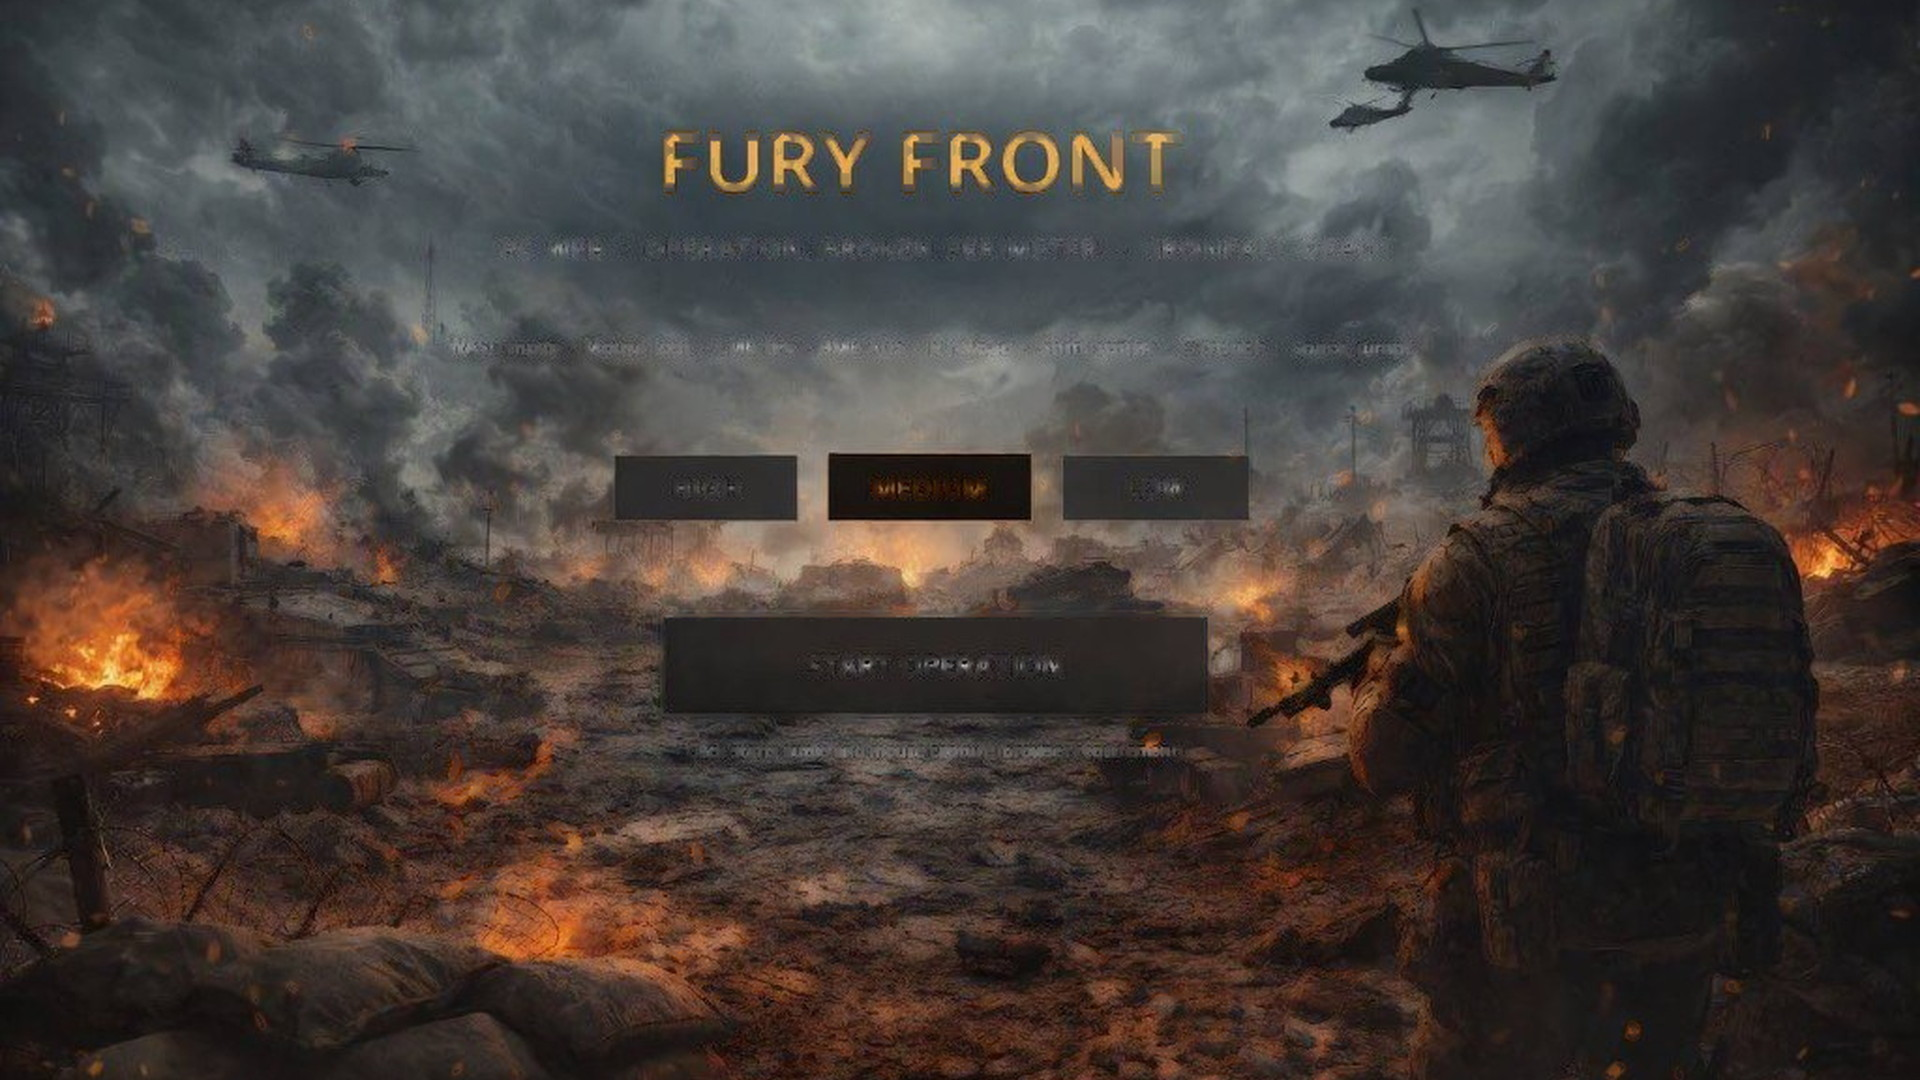
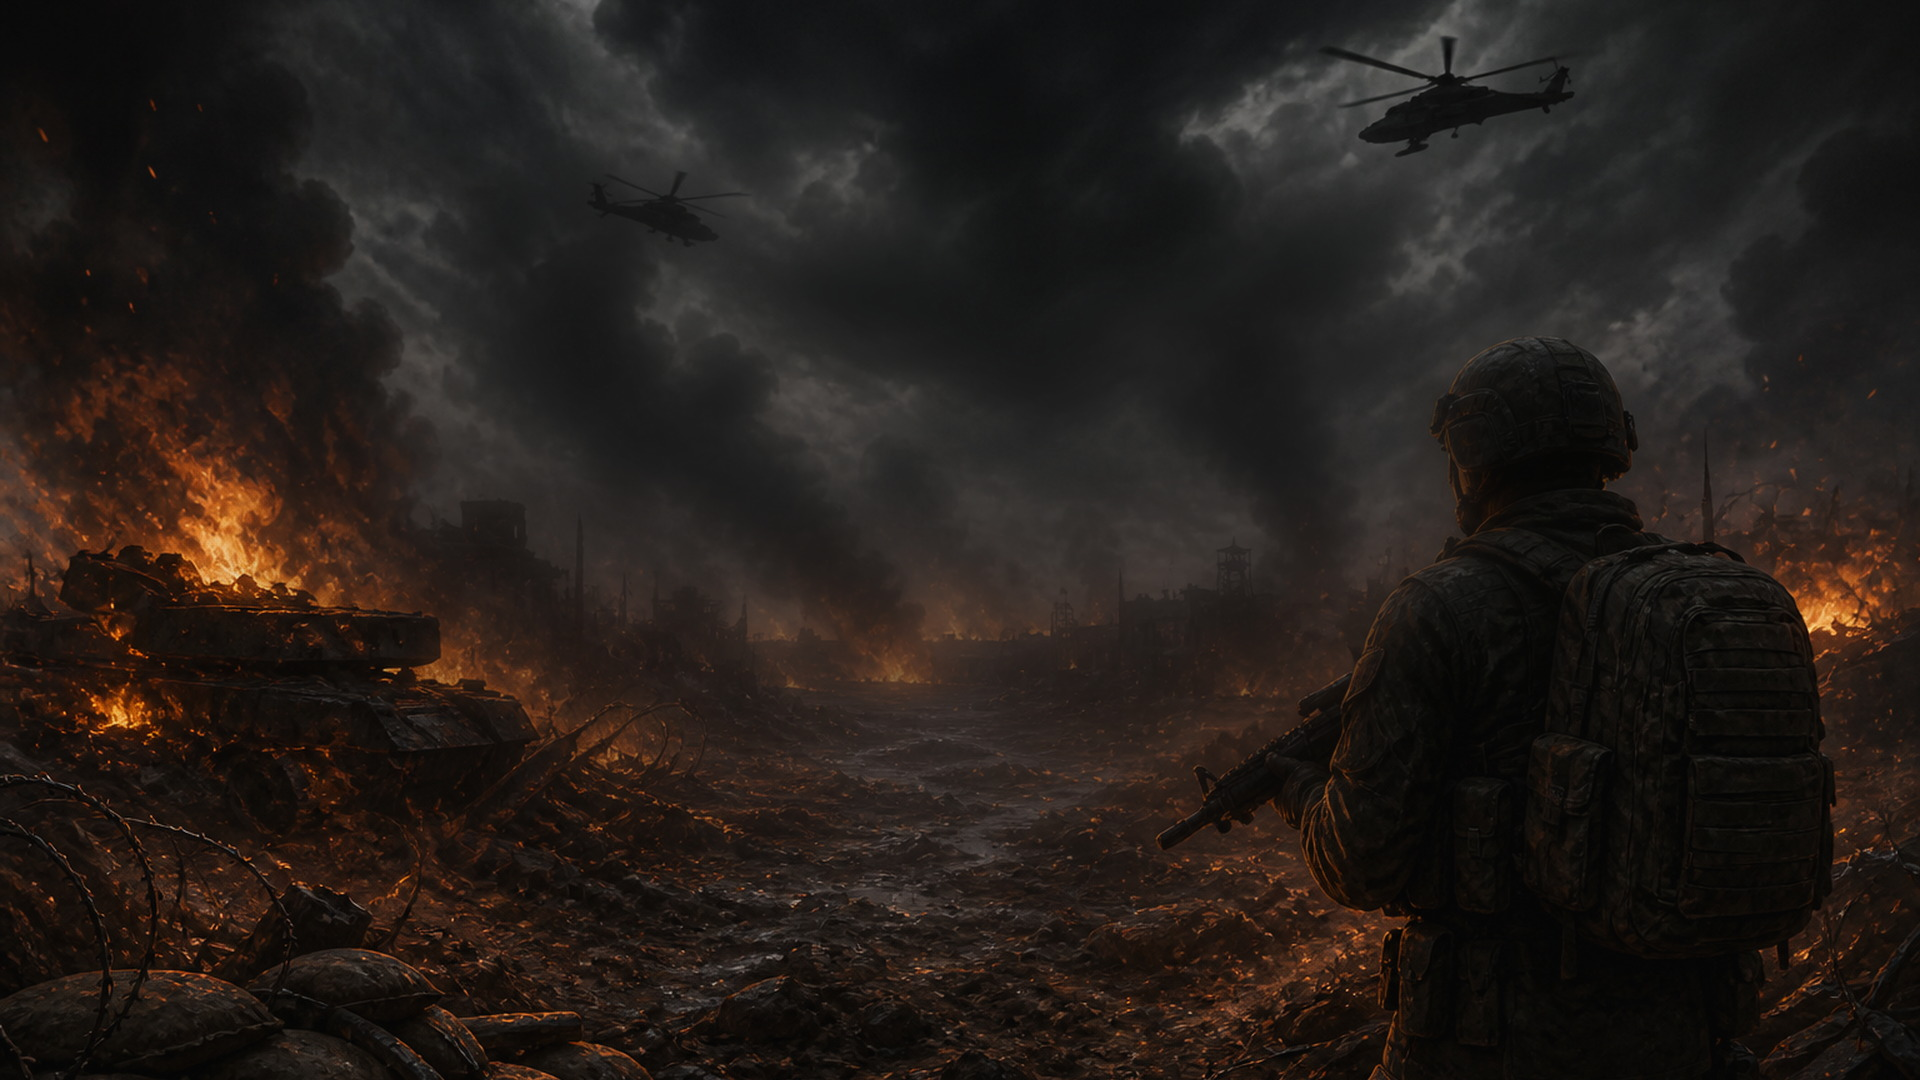
fix: replace the play start still with a sharp integrated battlefield
The old JPEG was small and already had menu chrome, so live Controls ghosted as a second layer. Ship a 1920x1080 generated plate with no baked UI and sit the menu in the scene smoke.

diff --git a/scripts/clean-start-background.py b/scripts/clean-start-background.py
@@ -1,66 +1,79 @@
-"""Author the 1920x1080 /play/ start still from the original battlefield painting.
+"""Author a sharp 1920x1080 play-start plate from the generated battlefield.
 
-Live Godot Controls own the menu. Bright baked glyphs are replaced with a
-local median so title/buttons are not drawn twice.
+No baked menu. Smoke in the menu zone is the painting itself, darkened and
+softened, so live Controls sit in atmosphere instead of on a second layer.
 """
 from __future__ import annotations
 
-import os
-import subprocess
+import random
+import shutil
 from pathlib import Path
 
-from PIL import Image, ImageFilter
+from PIL import Image, ImageChops, ImageDraw, ImageEnhance, ImageFilter
 
 ROOT = Path(__file__).resolve().parents[1]
-SOURCE_REV = "0bf8270"
-SOURCE_PATH = "game/assets/ui/start_background.jpg"
+SRC_CURSOR = Path(r"C:\Users\hartm\.cursor\projects\c-Users-hartm-furyfront\assets\play-start-battlefield.png")
+SRC_REPO = ROOT / "assets" / "play-start-battlefield.png"
 OUT_GAME = ROOT / "game" / "assets" / "ui" / "start_background.jpg"
 OUT_PROV = ROOT / "assets" / "play-start-background.jpg"
 TW, TH = 1920, 1080
 
 
-def _load_original() -> Image.Image:
-	data = subprocess.check_output(["git", "show", f"{SOURCE_REV}:{SOURCE_PATH}"], cwd=ROOT)
-	tmp = Path(os.environ.get("TEMP", "/tmp")) / "ff_orig_start.jpg"
-	tmp.write_bytes(data)
-	return Image.open(tmp).convert("RGB")
-
-
-def _kill_glyphs(im: Image.Image) -> Image.Image:
-	med = im.filter(ImageFilter.MedianFilter(9))
-	w, h = im.size
-	src = im.load()
-	ref = med.load()
-	out = im.copy()
-	dst = out.load()
-	x0, x1 = int(w * 0.08), int(w * 0.92)
-	for y in range(h):
-		for x in range(x0, x1):
-			o = src[x, y]
-			m = ref[x, y]
-			ol = 0.3 * o[0] + 0.59 * o[1] + 0.11 * o[2]
-			ml = 0.3 * m[0] + 0.59 * m[1] + 0.11 * m[2]
-			if ol > ml + 20:
-				dst[x, y] = m
-	return out
-
-
-def _cover_1920(im: Image.Image) -> Image.Image:
+def _cover(im: Image.Image) -> Image.Image:
 	w, h = im.size
 	scale = max(TW / w, TH / h)
 	nw, nh = int(w * scale + 0.5), int(h * scale + 0.5)
-	scaled = im.resize((nw, nh), Image.Resampling.LANCZOS)
+	scaled = im.convert("RGB").resize((nw, nh), Image.Resampling.LANCZOS)
 	left = max(0, (nw - TW) // 2)
-	top = max(0, (nh - TH) // 2)
+	extra = max(0, nh - TH)
+	top = int(extra * 0.28)  # keep sandbags / soldier
 	return scaled.crop((left, top, left + TW, top + TH))
 
 
+def _menu_haze(canvas: Image.Image) -> Image.Image:
+	"""Thicken the existing smoke where the centered menu lives."""
+	smoky = ImageEnhance.Brightness(canvas.filter(ImageFilter.GaussianBlur(18))).enhance(0.62)
+	smoky = ImageEnhance.Color(smoky).enhance(0.75)
+	mask = Image.new("L", (TW, TH), 0)
+	d = ImageDraw.Draw(mask)
+	d.ellipse((int(TW * 0.16), int(TH * 0.08), int(TW * 0.84), int(TH * 0.78)), fill=255)
+	mask = mask.filter(ImageFilter.GaussianBlur(90))
+	mask = ImageEnhance.Brightness(mask).enhance(0.72)
+	return Image.composite(smoky, canvas, mask)
+
+
+def _vignette(canvas: Image.Image) -> Image.Image:
+	v = Image.new("L", (TW, TH), 0)
+	ImageDraw.Draw(v).ellipse((-int(TW * 0.08), -int(TH * 0.12), int(TW * 1.08), int(TH * 1.18)), fill=255)
+	v = ImageChops.invert(v.filter(ImageFilter.GaussianBlur(150)))
+	v = ImageEnhance.Brightness(v).enhance(0.22)
+	edge = ImageEnhance.Brightness(canvas).enhance(0.55)
+	return Image.composite(edge, canvas, v)
+
+
+def _grain(canvas: Image.Image) -> Image.Image:
+	rnd = random.Random(17)
+	gw, gh = TW // 2, TH // 2
+	g = Image.new("L", (gw, gh))
+	px = g.load()
+	for y in range(gh):
+		for x in range(gw):
+			px[x, y] = rnd.randint(118, 138)
+	g = g.resize((TW, TH), Image.Resampling.BILINEAR)
+	return Image.blend(canvas, Image.merge("RGB", (g, g, g)), 0.045)
+
+
 def main() -> None:
-	canvas = _cover_1920(_kill_glyphs(_load_original()))
+	src = SRC_REPO if SRC_REPO.exists() else SRC_CURSOR
+	if not src.exists():
+		raise SystemExit(f"missing generated still: {src}")
+	if src != SRC_REPO:
+		SRC_REPO.parent.mkdir(parents=True, exist_ok=True)
+		shutil.copy2(src, SRC_REPO)
+	canvas = _grain(_vignette(_menu_haze(_cover(Image.open(src)))))
 	OUT_GAME.parent.mkdir(parents=True, exist_ok=True)
-	OUT_PROV.parent.mkdir(parents=True, exist_ok=True)
 	for dest in (OUT_GAME, OUT_PROV):
-		canvas.save(dest, "JPEG", quality=90, optimize=True, subsampling=1)
+		canvas.save(dest, "JPEG", quality=92, optimize=True, subsampling=1)
 	print("wrote", canvas.size, OUT_GAME, OUT_GAME.stat().st_size)
 
 

diff --git a/assets/PROVENANCE.md b/assets/PROVENANCE.md
@@ -3,7 +3,7 @@
 | Asset | Path | Notes |
 | --- | --- | --- |
 | Hero still | `assets/hero-still.png` | Landing key art only — operators at Ironfall Depot. No baked-in title or buttons. Deployed as `/media/hero-still.png`. HTML owns all overlay copy. |
-| Play start background | `assets/play-start-background.jpg` | Godot `/play/` start still from the original battlefield painting (1920×1080). Runtime copy: `game/assets/ui/start_background.jpg`. Live Godot Controls own title, quality, and Start. |
+| Play start background | `assets/play-start-background.jpg` | 1920×1080 `/play/` plate from generated battlefield `assets/play-start-battlefield.png`. No baked menu. Runtime: `game/assets/ui/start_background.jpg`. |
 | Hero cinematic | `assets/hero-video/hero.MP4` | Original Fury Front cinematic for the Watch Trailer modal. **Do not rename or replace without approval.** H.264/AAC, ~848×464, ~10 s, ~2 MB. |
 | Hero poster fallback | `assets/breached_entrance.webp` | Alternate still. Not the active landing hero. |
 | Squad / operator reference stills | `assets/*.webp` | Marketing/reference imagery. Not shipped in V0.1 Godot PCK. |

diff --git a/game/assets/PROVENANCE.md b/game/assets/PROVENANCE.md
@@ -12,7 +12,7 @@ No Call of Duty, Activision, or other copyrighted game assets are used.
 | KF-16 / WASP-9 / K5 viewmodel | BoxMesh placeholder | Original placeholder |
 | Gunshot / alarm / impact | Procedural WAV in `audio_director.gd` | Original |
 | HUD / touch buttons | Godot Controls | Original |
-| Play start background | `assets/ui/start_background.jpg` | User battlefield still; live Controls own the menu |
+| Play start background | `assets/ui/start_background.jpg` | Generated 1920×1080 battlefield plate; live Controls own the menu |
 | Muzzle shader | `game/shaders/muzzle_flash.gdshader` | Original |
 
 Replace placeholders with original authored art before any store listing. Keep this file updated when real GLB/OGG lands.
